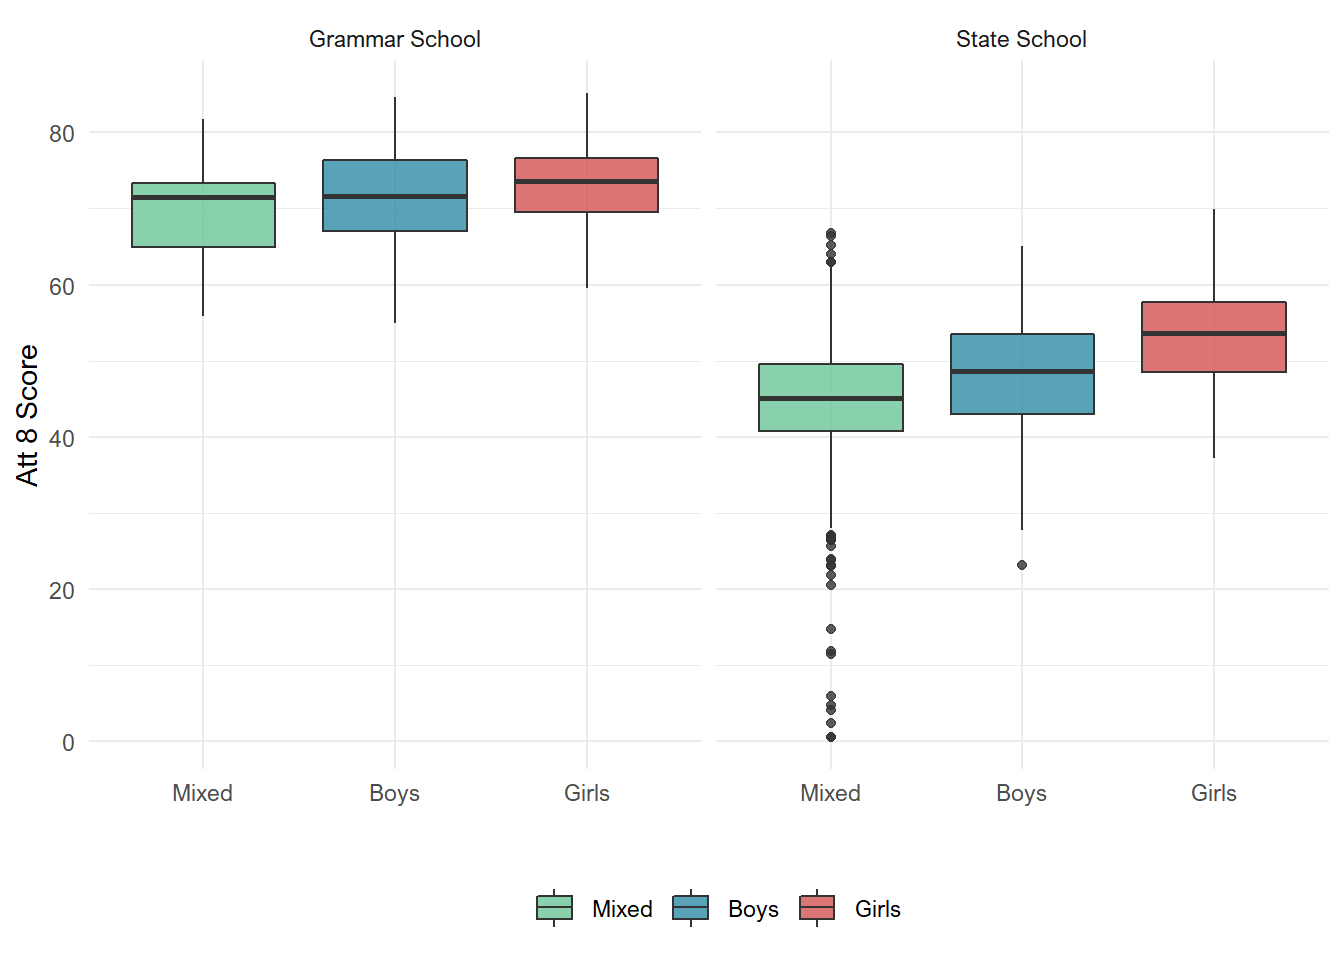
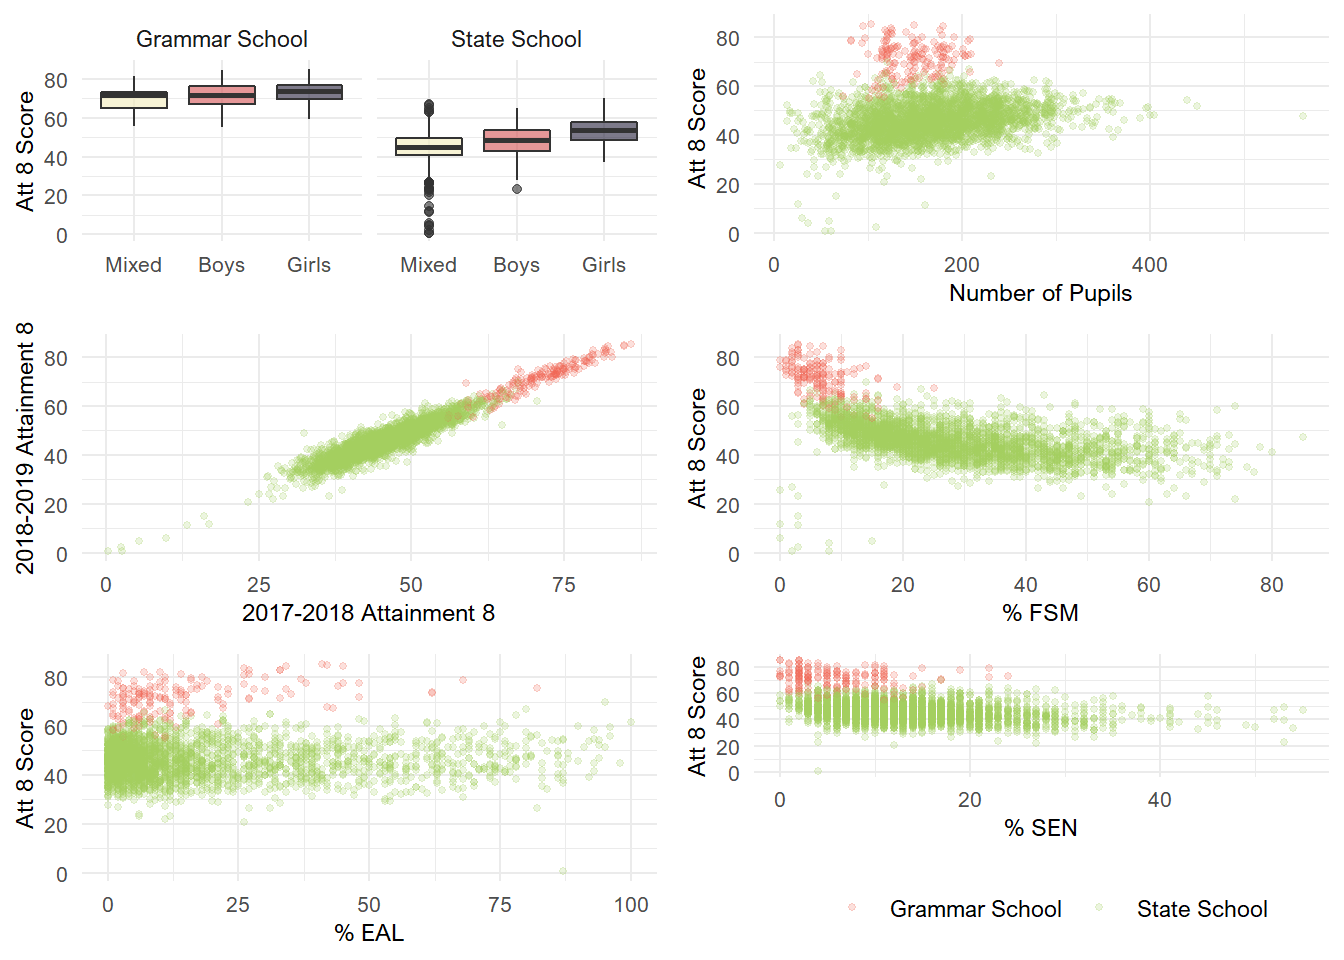
Changes made to correlation plots

diff --git a/public/posts/predicting-gcses/index.html b/public/posts/predicting-gcses/index.html
@@ -173,7 +173,7 @@ For obvious anonymity reasons, the government don’t provide the grades of indi
 <div id="relationship-with-demographic-variables" class="section level2">
 <h2>Relationship with Demographic Variables</h2>
 <p>The plots below show how attainment 8 varies depending on each of our other demographic variables.</p>
-<p><img src="/posts/predicting-gcses_files/figure-html/correlations-1.png" width="672" style="display: block; margin: auto;" /><img src="/posts/predicting-gcses_files/figure-html/correlations-2.png" width="672" style="display: block; margin: auto;" /><img src="/posts/predicting-gcses_files/figure-html/correlations-3.png" width="672" style="display: block; margin: auto;" /><img src="/posts/predicting-gcses_files/figure-html/correlations-4.png" width="672" style="display: block; margin: auto;" /><img src="/posts/predicting-gcses_files/figure-html/correlations-5.png" width="672" style="display: block; margin: auto;" /><img src="/posts/predicting-gcses_files/figure-html/correlations-6.png" width="672" style="display: block; margin: auto;" /></p>
+<p><img src="/posts/predicting-gcses_files/figure-html/correlations-1.png" width="110%" style="display: block; margin: auto;" /></p>
 <p>The relationships vary in magnitude, but it looks like all of these variables share some relationship with attainment 8 scores. Notably, this is very much more true for <strong>state</strong> schools than grammar schools.</p>
 <p>Some variables, such as pupil number and percentage EAL students share small correlations with attainment 8 scores. The percentage of SEN students also shares a negative correlations with attainment 8 scores.</p>
 <p>The variable most correlated with attainment 8 is clearly the school’s 2017-2018 attainment 8 score. This is particularly interesting given that the government has implied that they may use the prior grades of schools to moderate student grades assigned to students this year.</p>

diff --git a/content/posts/predicting-gcses.html b/content/posts/predicting-gcses.html
@@ -50,7 +50,7 @@ output: html_document
 <div id="relationship-with-demographic-variables" class="section level2">
 <h2>Relationship with Demographic Variables</h2>
 <p>The plots below show how attainment 8 varies depending on each of our other demographic variables.</p>
-<p><img src="/posts/predicting-gcses_files/figure-html/correlations-1.png" width="672" style="display: block; margin: auto;" /><img src="/posts/predicting-gcses_files/figure-html/correlations-2.png" width="672" style="display: block; margin: auto;" /><img src="/posts/predicting-gcses_files/figure-html/correlations-3.png" width="672" style="display: block; margin: auto;" /><img src="/posts/predicting-gcses_files/figure-html/correlations-4.png" width="672" style="display: block; margin: auto;" /><img src="/posts/predicting-gcses_files/figure-html/correlations-5.png" width="672" style="display: block; margin: auto;" /><img src="/posts/predicting-gcses_files/figure-html/correlations-6.png" width="672" style="display: block; margin: auto;" /></p>
+<p><img src="/posts/predicting-gcses_files/figure-html/correlations-1.png" width="110%" style="display: block; margin: auto;" /></p>
 <p>The relationships vary in magnitude, but it looks like all of these variables share some relationship with attainment 8 scores. Notably, this is very much more true for <strong>state</strong> schools than grammar schools.</p>
 <p>Some variables, such as pupil number and percentage EAL students share small correlations with attainment 8 scores. The percentage of SEN students also shares a negative correlations with attainment 8 scores.</p>
 <p>The variable most correlated with attainment 8 is clearly the school’s 2017-2018 attainment 8 score. This is particularly interesting given that the government has implied that they may use the prior grades of schools to moderate student grades assigned to students this year.</p>
